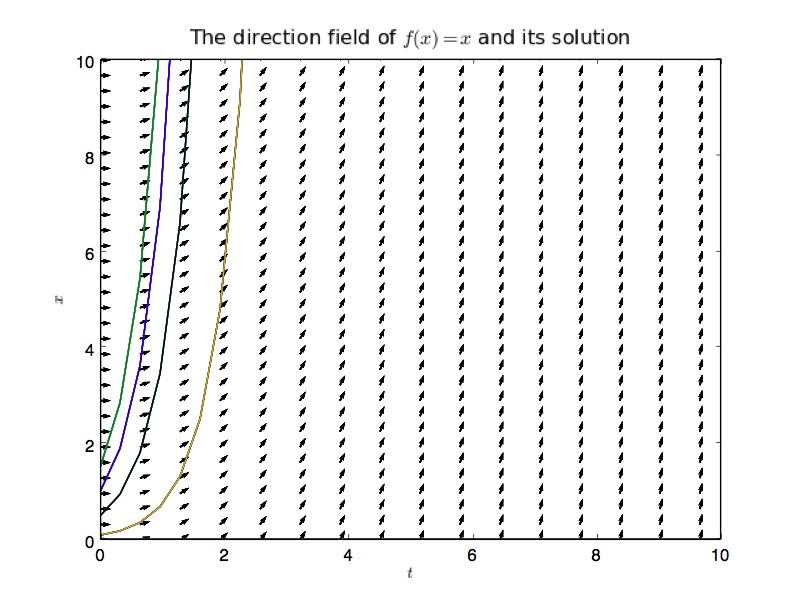
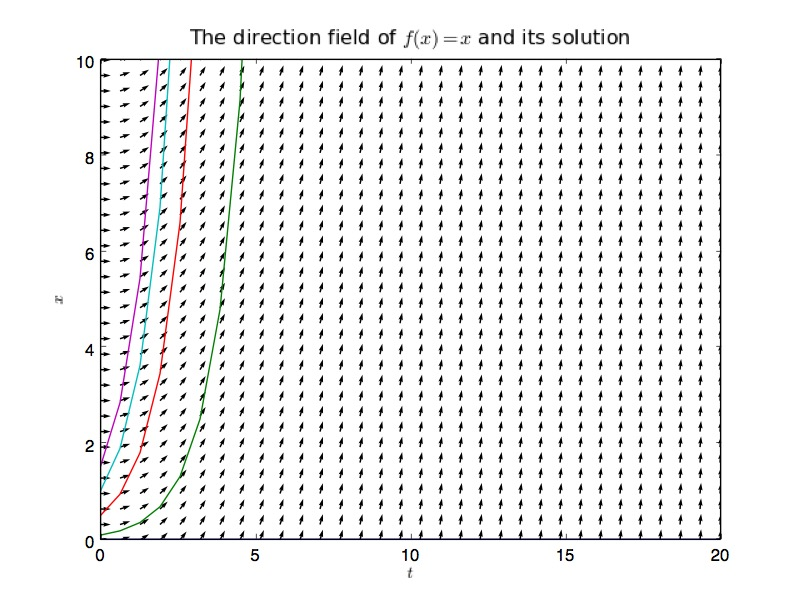
working on fixing the plots
cannot figure out a 1d slope field

diff --git a/HW2/sec28b.py b/HW2/sec28b.py
@@ -3,9 +3,9 @@ Boloutare Doubeni
 Math 532H - Non Linear Dynamics and Chaos with Applications
 September 22, 2014
 
-Strogatz Exercise 2.8.2a
+Strogatz Exercise 2.8.2b
 
-f(x) = x
+f(x) = 1-x^2
 """
 
 from __future__ import division
@@ -14,14 +14,72 @@ import matplotlib.pyplot as plt
 import scipy.integrate as integrate
 
 #args for linspace
-xmin = 0.
-xmax = 10.
+xmax = 4.
+xmin = -3.
 xn = 32
 
-tmin = xmin
-tmax = xmax
+tmin = -3.
+tmax = 4.
 
 #the grid for the plot
-x = np.linspace(xmin, xmax,xn) #the x-axis
-t = np.linspace(0, 2*xmax,xn) #the t-axis
+x = np.linspace(xmin, xmax, xn) #the x-axis
+t = np.linspace(tmin, tmax, xn) #the t-axis
 XX, YY = np.meshgrid(t, x) 
+
+def f(x,t): return 1 - pow(x,2)
+
+x0 = [-2.,-1., 0.,1., 2] #The initial conditions
+F = integrate.odeint(f,x0, t) #The solution of f(x)
+dx = 1 - pow(x,2) #x'=x
+dt = np.ones(xn) 
+r = (dx**2 + dt**2)**0.5; #use to normalize the vectors
+pt = dt/r
+px = dx/r
+
+def plot1(): 
+
+    plt.figure(3)
+    
+    #plot the vector field
+    plt.quiver(XX, YY, pt, 1/x)
+    
+    #plot labels
+    plt.xlabel('$t$')
+    plt.ylabel('$x$')
+    plt.title('The direction field of $f(x)=1-x^{2}$')
+    
+    #plot limits
+    plt.xlim([tmin, tmax])
+    plt.ylim([xmin, xmax])
+    
+    #save the figure as a jpg file
+    #plt.savefig('figures/Sec2_8bVec.jpg')
+    plt.show()
+
+def plot2():
+
+    plt.figure(4)
+
+    #plot the solution
+    plt.plot(t, F)
+    
+    #plot labels
+    plt.xlabel('$t$')
+    plt.ylabel('$x$')
+    plt.title('$\dot{x}=1-x^{2}$ and its solution')
+    
+    #plot limits
+    plt.xlim([tmin, tmax])
+    plt.ylim([xmin, xmax])
+    
+    #save the figure as a jpg file
+    plt.savefig('figures/Sec2_8bSlope.jpg')
+    
+plot1(); plot2();
+
+    
+
+    
+
+
+

diff --git a/HW2/sec28a.py b/HW2/sec28a.py
@@ -15,33 +15,32 @@ import scipy.integrate as integrate
 
 
 #args for linspace
-xmin = 0.
+xmin = -5
 xmax = 10.
 xn = 32
 
-tmin = xmin
-tmax = xmax
+tmin = 0
+tmax = 2*xmax
 
 #the grid for the plot
-x = np.linspace(xmin, xmax,xn) #the x-axis
-t = np.linspace(0, 2*xmax,xn) #the t-axis
+x = np.linspace(xmin, xmax, xn) #the x-axis
+t = np.linspace(tmin, tmax, xn) #the t-axis
 XX, YY = np.meshgrid(t, x) 
 
     
 def f(x,t): return x #f(x)=x
 
-x0 = [0.,.1,.5,1.,1.5] #The initial conditions
+x0 = [-1.,0.,.1,.5,1.,1.5] #The initial conditions
 F = integrate.odeint(f,x0, t) #The solution of f(x)
 dx = x #x'=x
-dt = np.ones(32) 
+dt = np.ones(xn) 
 r = (dx**2 + dt**2)**0.5; #use to normalize the vectors
 pt = dt/r
 px = dx/r
 
-def main(): 
+def plot1(): 
     
-    #plot the solution
-    plt.plot(dx, F)
+    plt.figure(2)
     
     #plot the vector field
     plt.quiver(XX, YY, pt, px)
@@ -49,15 +48,36 @@ def main():
     #plot labels
     plt.xlabel('$t$')
     plt.ylabel('$x$')
-    plt.title('The direction field of $f(x)=x$ and its solution')
+    plt.title('The direction field of $f(x)=x$')
     
     #plot limits
     plt.xlim([tmin, tmax])
-    plt.ylim([tmin, tmax])
+    plt.ylim([xmin, xmax])
+    
+    plt.show()
+    #plt.savefig('figures/Sec2_8aSlope.jpg')
    
+   
+
+def plot2():
+    plt.figure(1)
+    
+    #plot the solution
+    plt.plot(t, F)
+    
+    #plot labels
+    plt.xlabel('$t$')
+    plt.ylabel('$x$')
+    plt.title('$\dot{x}=x$ and its solution')
+    
+    #plot limits
+    plt.xlim([tmin, tmax])
+    plt.ylim([xmin, xmax])
+    
     #save the figure as a jpg file
-    plt.savefig('figures/Sec2_8.jpg')
+    plt.plot()
+    #plt.savefig('figures/Sec2_8aVec.jpg')
 
-main()
 
+plot1(); plot2();
 
